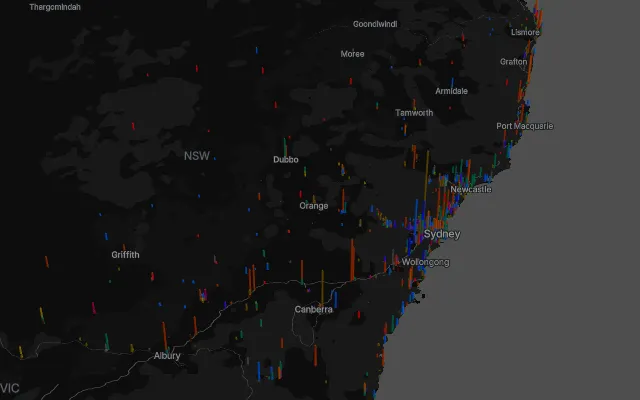
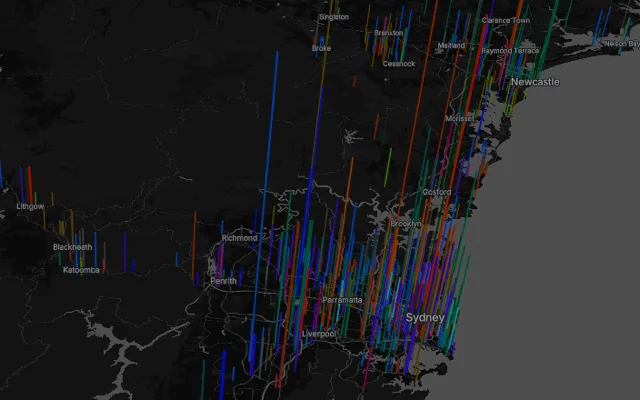
feat: landing points as prose; closer NSW and US example maps
- /lp/: the three equal cards become three lines of prose in one
  column, the same move the homepage made
- NSW EV charging thumbnail zoomed to Sydney-Newcastle, where the
  sites are; US population by county zoomed to the lower 48

diff --git a/lp/variant-a/index.html b/lp/variant-a/index.html
@@ -213,11 +213,13 @@
       .lp-note b { color: var(--muted); }
       .lp-shot { width: 100%; height: auto; margin-top: 44px; border-radius: 4px; }
       .lp-proof { padding: 72px 0; }
-      .lp-grid { display: grid; gap: 20px; grid-template-columns: repeat(3, 1fr); }
+      /* The three points read as prose, one column, not three equal cards */
+      .lp-point { font-size: 19px; line-height: 1.6; color: var(--muted); max-width: 760px; }
+      .lp-point + .lp-point { margin-top: 18px; }
+      .lp-point b { color: var(--text); }
       .lp-final { padding: 72px 0; }
       .lp-final h2 { font-size: 30px; font-weight: 700; letter-spacing: -0.015em; }
       .lp-final .cta-row { margin-top: 24px; display: flex; align-items: center; gap: 20px; }
-      @media (max-width: 860px) { .lp-grid { grid-template-columns: 1fr; } }
     </style>
     <script src="/analytics.js" defer></script>
     <!-- Google tag (gtag.js) — Google Ads, landing pages only -->
@@ -264,20 +266,9 @@
 
     <section class="lp-proof">
       <div class="wrap">
-        <div class="lp-grid">
-          <div class="card">
-            <h3>Nothing to download</h3>
-            <p>Connect straight to 298 open data portals across 48 countries and regions and pull a dataset onto a map in a couple of clicks. No shapefiles, no ETL, no waiting on a data team.</p>
-          </div>
-          <div class="card">
-            <h3>No GIS specialist needed</h3>
-            <p>Joins, choropleths, 3D extrusion and catchments without a single line of code — and without the week of training a traditional GIS package assumes.</p>
-          </div>
-          <div class="card">
-            <h3>Client-ready, not screenshot-ready</h3>
-            <p>Publish an interactive map on its own link, or drop a finished graphic into a report — without the detour through Illustrator and PowerPoint.</p>
-          </div>
-        </div>
+        <p class="lp-point"><b>Nothing to download.</b> Connect straight to 298 open data portals across 48 countries and regions and pull a dataset onto a map in a couple of clicks. No shapefiles, no ETL, no waiting on a data team.</p>
+        <p class="lp-point"><b>No GIS specialist needed.</b> Joins, choropleths, 3D extrusion and catchments without a single line of code — and without the week of training a traditional GIS package assumes.</p>
+        <p class="lp-point"><b>Client-ready, not screenshot-ready.</b> Publish an interactive map on its own link, or drop a finished graphic into a report — without the detour through Illustrator and PowerPoint.</p>
       </div>
     </section>
 

diff --git a/lp/variant-b/index.html b/lp/variant-b/index.html
@@ -213,11 +213,13 @@
       .lp-note b { color: var(--muted); }
       .lp-shot { width: 100%; height: auto; margin-top: 44px; border-radius: 4px; }
       .lp-proof { padding: 72px 0; }
-      .lp-grid { display: grid; gap: 20px; grid-template-columns: repeat(3, 1fr); }
+      /* The three points read as prose, one column, not three equal cards */
+      .lp-point { font-size: 19px; line-height: 1.6; color: var(--muted); max-width: 760px; }
+      .lp-point + .lp-point { margin-top: 18px; }
+      .lp-point b { color: var(--text); }
       .lp-final { padding: 72px 0; }
       .lp-final h2 { font-size: 30px; font-weight: 700; letter-spacing: -0.015em; }
       .lp-final .cta-row { margin-top: 24px; display: flex; align-items: center; gap: 20px; }
-      @media (max-width: 860px) { .lp-grid { grid-template-columns: 1fr; } }
     </style>
     <script src="/analytics.js" defer></script>
     <!-- Google tag (gtag.js) — Google Ads, landing pages only -->
@@ -264,20 +266,9 @@
 
     <section class="lp-proof">
       <div class="wrap">
-        <div class="lp-grid">
-          <div class="card">
-            <h3>Nothing to download</h3>
-            <p>Connect straight to 298 open data portals across 48 countries and regions and pull a dataset onto a map in a couple of clicks. No shapefiles, no ETL, no waiting on a data team.</p>
-          </div>
-          <div class="card">
-            <h3>No GIS specialist needed</h3>
-            <p>Joins, choropleths, 3D extrusion and catchments without a single line of code — and without the week of training a traditional GIS package assumes.</p>
-          </div>
-          <div class="card">
-            <h3>Client-ready, not screenshot-ready</h3>
-            <p>Publish an interactive map on its own link, or drop a finished graphic into a report — without the detour through Illustrator and PowerPoint.</p>
-          </div>
-        </div>
+        <p class="lp-point"><b>Nothing to download.</b> Connect straight to 298 open data portals across 48 countries and regions and pull a dataset onto a map in a couple of clicks. No shapefiles, no ETL, no waiting on a data team.</p>
+        <p class="lp-point"><b>No GIS specialist needed.</b> Joins, choropleths, 3D extrusion and catchments without a single line of code — and without the week of training a traditional GIS package assumes.</p>
+        <p class="lp-point"><b>Client-ready, not screenshot-ready.</b> Publish an interactive map on its own link, or drop a finished graphic into a report — without the detour through Illustrator and PowerPoint.</p>
       </div>
     </section>
 
